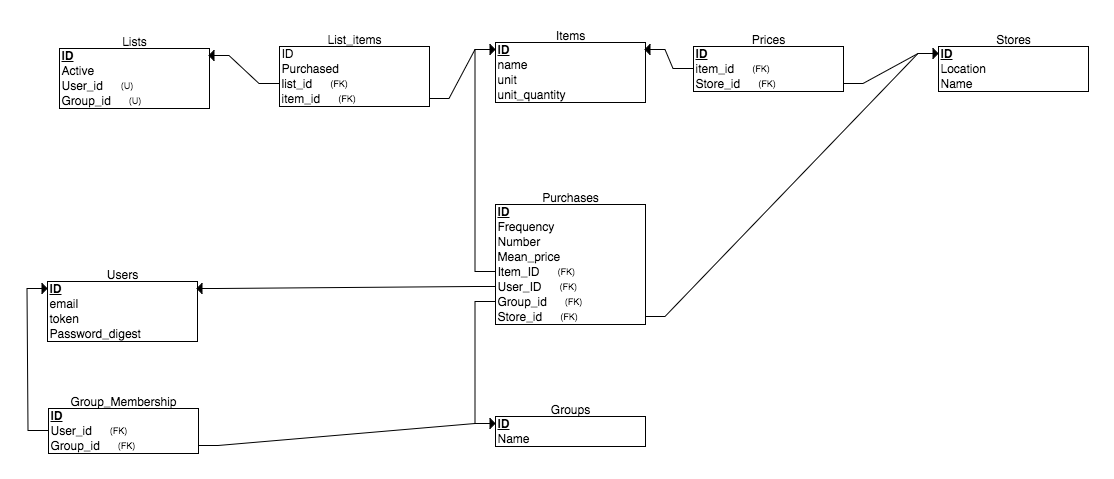
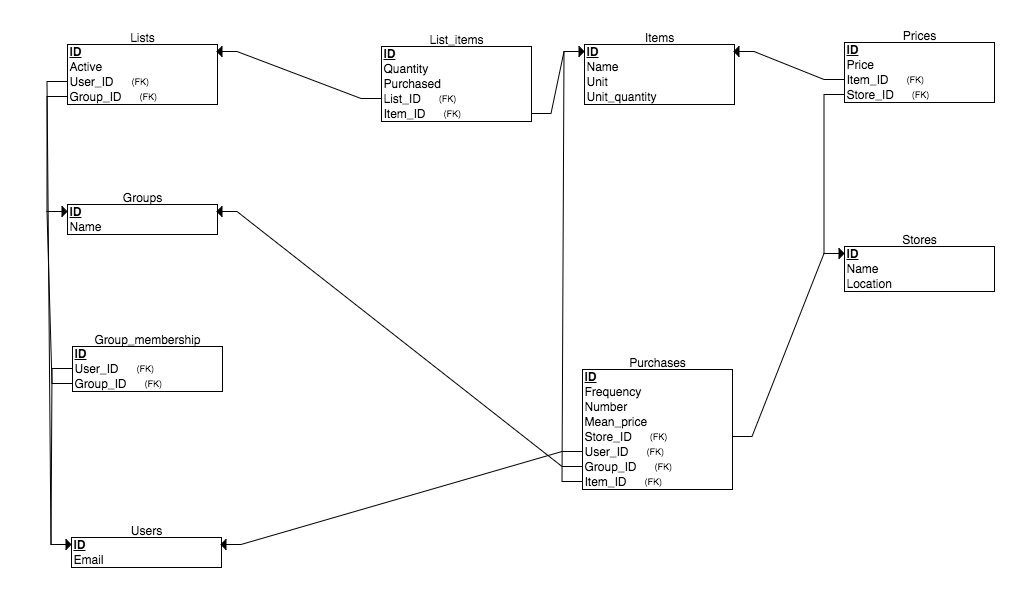
Add ERD changes

diff --git a/db/schema.rb b/db/schema.rb
@@ -10,7 +10,7 @@
 #
 # It's strongly recommended that you check this file into your version control system.
 
-ActiveRecord::Schema.define(version: 20171019145742) do
+ActiveRecord::Schema.define(version: 20171019171302) do
 
   # These are extensions that must be enabled in order to support this database
   enable_extension "plpgsql"
@@ -36,6 +36,8 @@ ActiveRecord::Schema.define(version: 20171019145742) do
     t.string "name"
     t.datetime "created_at", null: false
     t.datetime "updated_at", null: false
+    t.bigint "user_id"
+    t.index ["user_id"], name: "index_groups_on_user_id"
   end
 
   create_table "items", force: :cascade do |t|
@@ -44,6 +46,8 @@ ActiveRecord::Schema.define(version: 20171019145742) do
     t.integer "unit_quantity"
     t.datetime "created_at", null: false
     t.datetime "updated_at", null: false
+    t.bigint "user_id"
+    t.index ["user_id"], name: "index_items_on_user_id"
   end
 
   create_table "list_items", force: :cascade do |t|
@@ -72,8 +76,10 @@ ActiveRecord::Schema.define(version: 20171019145742) do
     t.bigint "store_id"
     t.datetime "created_at", null: false
     t.datetime "updated_at", null: false
+    t.bigint "user_id"
     t.index ["item_id"], name: "index_prices_on_item_id"
     t.index ["store_id"], name: "index_prices_on_store_id"
+    t.index ["user_id"], name: "index_prices_on_user_id"
   end
 
   create_table "purchases", force: :cascade do |t|
@@ -96,6 +102,8 @@ ActiveRecord::Schema.define(version: 20171019145742) do
     t.string "location"
     t.datetime "created_at", null: false
     t.datetime "updated_at", null: false
+    t.bigint "user_id"
+    t.index ["user_id"], name: "index_stores_on_user_id"
   end
 
   create_table "users", force: :cascade do |t|
@@ -111,12 +119,16 @@ ActiveRecord::Schema.define(version: 20171019145742) do
   add_foreign_key "examples", "users"
   add_foreign_key "group_memberships", "groups"
   add_foreign_key "group_memberships", "users"
+  add_foreign_key "groups", "users"
+  add_foreign_key "items", "users"
   add_foreign_key "list_items", "items"
   add_foreign_key "list_items", "lists"
   add_foreign_key "lists", "users"
   add_foreign_key "prices", "items"
   add_foreign_key "prices", "stores"
+  add_foreign_key "prices", "users"
   add_foreign_key "purchases", "items"
   add_foreign_key "purchases", "stores"
   add_foreign_key "purchases", "users"
+  add_foreign_key "stores", "users"
 end
